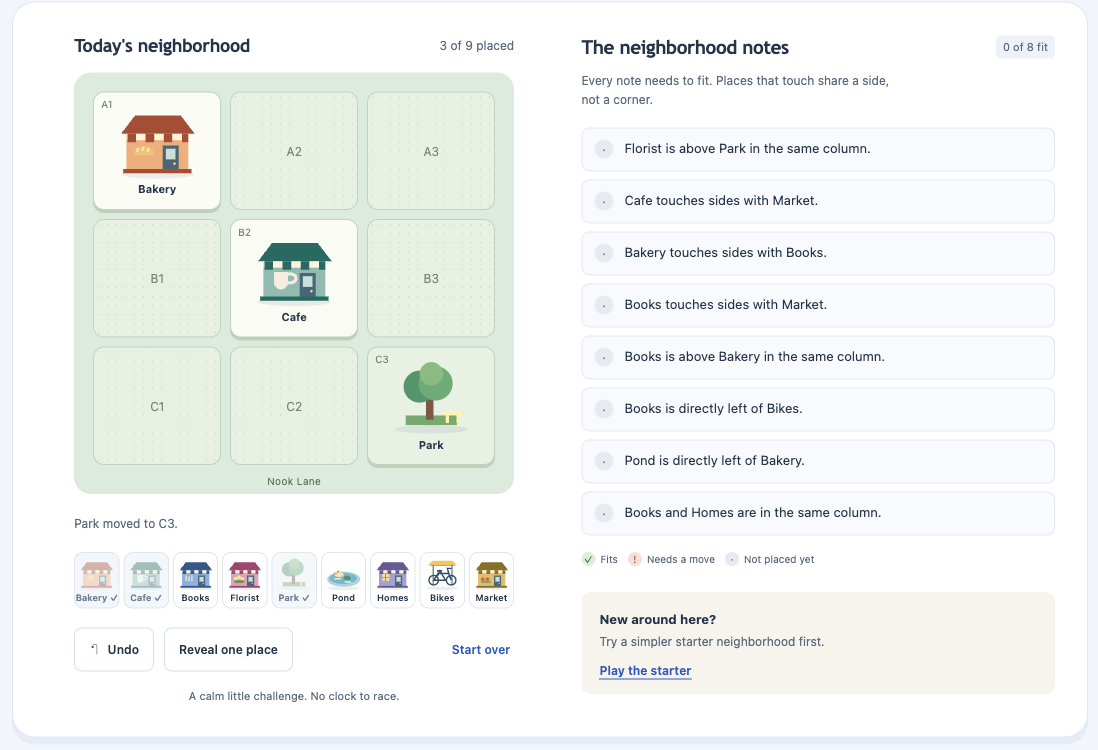
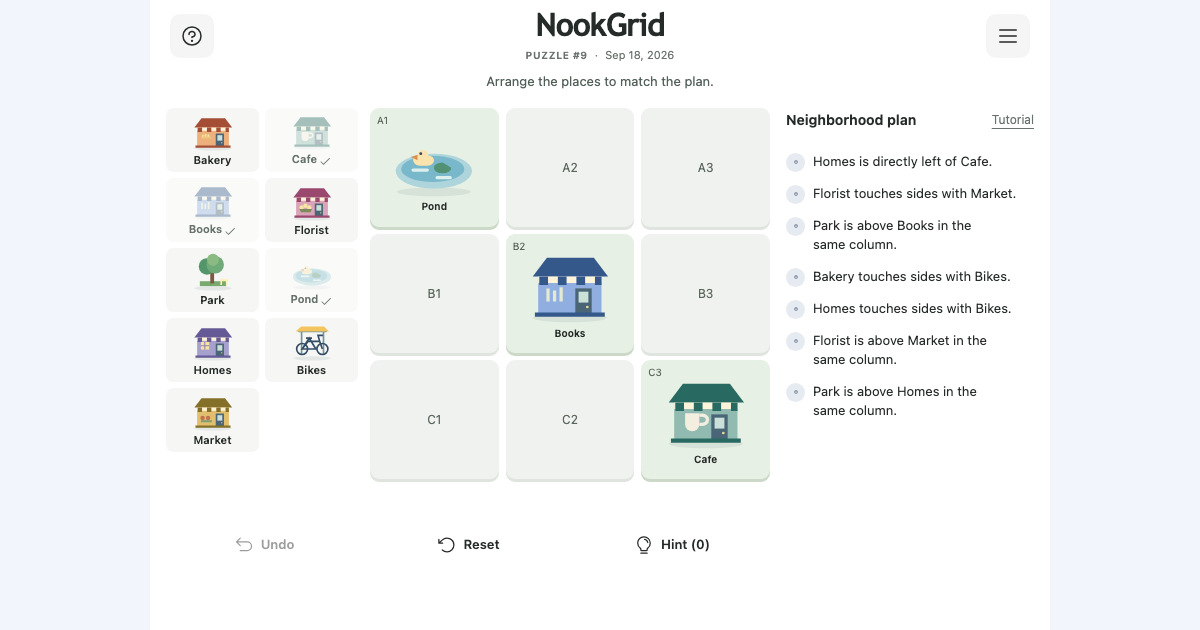
Refresh the social link preview with current gameplay

diff --git a/public/index.html b/public/index.html
@@ -13,10 +13,10 @@
   <meta property="og:type" content="website">
   <meta property="og:site_name" content="NookGrid">
   <meta property="og:url" content="https://nookgrid.com/">
-  <meta property="og:image" content="https://nookgrid.com/nookgrid-gameplay.png">
+  <meta property="og:image" content="https://nookgrid.com/nookgrid-gameplay.png?v=20260918-ui1">
   <meta property="og:image:type" content="image/png">
-  <meta property="og:image:width" content="1098">
-  <meta property="og:image:height" content="750">
+  <meta property="og:image:width" content="1200">
+  <meta property="og:image:height" content="630">
   <meta property="og:image:alt" content="NookGrid gameplay with three places on a nine-lot neighborhood board, a tray of places, and the neighborhood plan alongside.">
   <link rel="icon" href="./favicon.svg" type="image/svg+xml">
   <link rel="stylesheet" href="./style.css?v=20260917-plan-spacing1">
